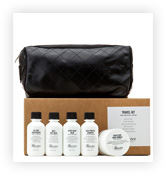
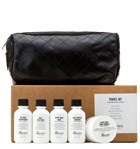
Исправила картинки

diff --git a/item.html b/item.html
@@ -50,12 +50,12 @@
       </div>
       <div class="gallery">
         <div class="item-big-logo">
-          <img src="img/item-big.jpg" width="486" height="524" alt="Baxter of California">
+          <img src="img/item-big.jpg" width="460" height="498" alt="Baxter of California">
         </div>
         <div class="item-small-logo">
-          <img src="img/item-small1.jpg" width="166" height="175" alt="Baxter of California">
-          <img src="img/item-small2.jpg" width="166" height="175" alt="Baxter of California">
-          <img src="img/item-small3.jpg" width="166" height="175" alt="Baxter of California">
+          <img src="img/item-small1.jpg" width="140" height="149" alt="Baxter of California">
+          <img src="img/item-small2.jpg" width="140" height="149" alt="Baxter of California">
+          <img src="img/item-small3.jpg" width="140" height="149" alt="Baxter of California">
         </div>
       </div>
       <div class="item-right">
